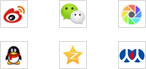
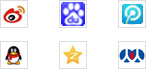
333

Changed region(s): [[0.411, 0.029, 0.6027, 0.3768], [0.8219, 0.058, 0.9863, 0.3478]]

diff --git a/index/Tpl/Index/index.html b/index/Tpl/Index/index.html
@@ -4,28 +4,33 @@
 <meta http-equiv="Content-Type" content="text/html; charset=utf-8" />
 <title>拉帮皆友一起享</title>
 <link href="__PUBLIC__/index/css/style.css" rel="stylesheet" type="text/css" />
+    <script type="text/javascript" charset="utf-8" src="http://static.bshare.cn/b/buttonLite.js#uuid=4787597&style=-1"></script>
+
 </head>
 <body>
     <!--pop start-->
-    <div id="popDiv" class="mydiv" style="display:none;">  
-		<a href="javascript:closeBg()" class="btn_del" title="关闭"></a>
+    <div id="popDiv" class="mydiv" style="display:none;">
+        <a href="javascript:closeBg();" class="btn_del" title="关闭"></a>
         <div class="popcon">
-        	<div class="popcon_left"><img src="__PUBLIC__/index/images/img_ewm.jpg" /></div>
+            <div class="popcon_left"><img id="img_keleyi_com" src="" /></div>
             <div class="popcon_right">
-            	<div class="btn_save"><a href="#" title="保存到本地"></a></div>
+                <div class="btn_save"><a id="img_keleyi_com_2" href="#" title="保存到本地"></a></div>
                 <div class="sharediv">
-                    <a title="分享到新浪微博" href="javascript:void(0);"><span class="xinlang"></span></a>
-                    <a title="分享到微信" href="javascript:void(0);"><span class="weixin"></span></a>
-                    <a title="分享到微信朋友圈" href="javascript:void(0);"><span class="weixinpy"></span></a>
-                    <a title="分享到腾讯微博" href="javascript:void(0)" onclick="postToWb();"><span class="tengxunweibo"></span></a>
-                    <a title="分享到Qzone空间" href="javascript:void(0);"><span class="qqzone"></span></a>
-                    <a title="分享到人人网" href="javascript:void(0);"><span class="renren"></span></a>
+                    <!--
+                    <wb:share-button appkey="358C3z" addition="full" type="button" ralateUid="1660811367" default_text="我参加了诺基亚“拉帮‘皆’友，一起享”活动，扫描我的二维码或点击（链接）购买就能立享优惠哦！明星机型都有参与！" picture_search="false"></wb:share-button>
+                    -->
+                    <a title="分享到新浪微博" href="javascript:void(0);" onclick="bShare.share(event,'sinaminiblog',2);return false;"><span class="xinlang"></span></a>
+                    <a title="分享到百度贴吧" href="javascript:void(0);" onclick="bShare.share(event,'itieba',0);return false;"><span class="weixin"></span></a>
+                    <a title="分享到QQ好友" href="javascript:void(0);" onclick="bShare.share(event,'qqim',1);return false;"><span class="tengxunweibo"></span></a>
+                    <a title="分享到腾讯微博" href="javascript:void(0)" onclick="bShare.share(event,'qqmb',0);return false;"><span class="weixinpy"></span></a>
+                    <a title="分享到Qzone空间" href="javascript:void(0);" onclick="bShare.share(event,'qzone',0);return false;"><span class="qqzone"></span></a>
+                    <a title="分享到人人网" href="javascript:void(0);" onclick="bShare.share(event,'renren',0);return false;"><span class="renren"></span></a>
                 </div>
             </div>
             <div class="clear20"></div>
-            <div class="popcon_foot"><a href="#">http://wwww.baidu.com</a></div>
+            <div class="popcon_foot"></div>
         </div>
-    </div>                                   
+    </div>
     <div id="hidebg" class="hidebg" style="display:none"></div>
     <!--pop end-->
 	<!--header start-->
@@ -41,8 +46,8 @@
     	<div class="hdnrcon">
         	<div class="hdnrconleft">
             	<div class="imgbox"><a href="#"><img src="__PUBLIC__/index/images/ewm.jpg" /></a></div>
-                <div class="inputbox"><input type="text" class="inputclass" value=""/></div>
-                <div class="btn_click"><a href="#" onClick="alert('活动尚未开始，暂不可领取！');return;showBg();" title="点击生成"></a></div>
+                <div class="inputbox"><input type="text" class="inputclass" value="" id="action_tel"/></div>
+                <div class="btn_click"><a onClick="showBg();" title="点击生成"></a></div>
             </div>
         </div>
     </div>
@@ -76,7 +81,7 @@
                 	<div class="divimg"><img src="__PUBLIC__/index/images/img_phone5.jpg" /></div>
                     <div class="divprice"><img src="__PUBLIC__/index/images/img_price5.jpg" /></div>
                     <div class="btn_buy"><a href="http://detail.tmall.com/item.htm?spm=a220m.1000858.1000725.6.5XPajX&id=39217571828&_u=k1ivtdlob5a4&areaId=110100&cat_id=2&rn=b5a24abaed301bbe07732f89c73b314f&user_id=1102421602&is_b=1" target="_blank" title="点击购买"></a></div>
-                </li>
+                </li
             </ul>
             <div class="clear"></div>
         </div>
@@ -106,71 +111,70 @@
 <script type="text/javascript">
     //显示灰色 jQuery 遮罩层
     function showBg() {
-        
-        $("#hidebg").css({
-            display: "block"
+        var tel = $('#action_tel').val();
+        if(!tel){
+            alert('请输入您的手机号！');
+            return false;
+        }
+
+        $.ajax({
+            type : 'POST',
+            url : '__URL__/check_tel',
+            cache : false,
+            data : '&id='+ tel + '&type=tel',
+            dataType : 'json',
+            success : function(ress){
+                if(ress.status == 'error'){
+                    alert('数据请求失败！请稍后再试！');
+                    return;
+                }else{
+
+                    var foot_str = '我参加了诺基亚“拉帮‘皆’友，一起享”活动，扫描我的二维码或点击（<a href="http://182.92.64.207/nokia_share/share/' + ress.id + '" target="_blank">http://182.92.64.207/nokia_share/share/' + ress.id + '</a>）购买就能立享优惠哦！明星机型都有参与！详情访问：<a target="_blank" href="http://182.92.64.207/nokia_share">http://182.92.64.207/nokia_share</a>';
+                    $('.popcon_foot').html(foot_str);
+
+                    bShare.addEntry({
+                        title: "拉帮皆友一起享",
+                        url: "http://182.92.64.207/nokia_share",
+                        summary: "我参加了诺基亚“拉帮‘皆’友，一起享”活动，扫描我的二维码或点击（http://182.92.64.207/nokia_share/share/" + ress.id + "）购买就能立享优惠哦！明星机型都有参与！",
+                        pic: "http://182.92.64.207__APP__/Index/checkqr/id/" + ress.id
+                    });
+
+                    bShare.addEntry({
+                        title: "拉帮皆友一起享",
+                        url: "http://182.92.64.207/nokia_share",
+                        summary: "我参加了诺基亚“拉帮‘皆’友，一起享”活动，点击http://182.92.64.207/nokia_share/share/" + ress.id + "购买就能立享优惠哦！明星机型都有参与！",
+                        pic: "http://182.92.64.207__APP__/Index/checkqr/id/" + ress.id
+                    });
+
+                    bShare.addEntry({
+                        title: "拉帮皆友一起享",
+                        url: "http://182.92.64.207/nokia_share",
+                        summary: "我参加了诺基亚“拉帮‘皆’友，一起享”活动，扫描我的二维码或点击（http://182.92.64.207/nokia_share/share/" + ress.id + "）购买就能立享优惠哦！明星机型都有参与！活动详情：",
+                        pic: "http://182.92.64.207__APP__/Index/checkqr/id/" + ress.id
+                    });
+
+                    $("#img_keleyi_com").attr("src", "__APP__/Index/checkqr/id/" + ress.id);
+                    $("#img_keleyi_com").attr("width", "200");
+                    $("#img_keleyi_com").attr("height", "200");
+                    $("#img_keleyi_com_2").attr("href", "__APP__/Index/downqr/id/" + ress.id);
+                    $("#hidebg").css({
+                        display: "block"
+                    });
+                    $("#popDiv").show();
+                    return;
+                }
+            }
         });
-        $("#popDiv").show();
     }
+
+
     //关闭灰色 jQuery 遮罩
     function closeBg() {
         $("#hidebg,#popDiv").hide();
     }
-	
-// 分享代码
-var shareid = "fenxiang";
 
-(function() {
-    var a = {
-        url:function() {
-            return encodeURIComponent(window.location.href)
-        },title:function() {
-            return encodeURIComponent(window.document.title)
-        },content:function(b) {
-            if (b) {
-                return encodeURIComponent($("#" + b).html())
-            } else {
-                return""
-            }
-        },setid:function() {
-            if (typeof(shareid) == "undefined") {
-                return null
-            } else {
-                return shareid
-            }
-        },renren:function() {
-            window.open("http://share.renren.com/share/buttonshare.do?link=" + this.url() + "&title=" + this.title())
-        },sinaminiblog:function() {
-            window.open("http://v.t.sina.com.cn/share/share.php?url=" + this.url() + "&title=" + this.title() + "&content=utf-8&source=&sourceUrl=&pic=")
-        },qqzone:function() {
-            window.open('http://sns.qzone.qq.com/cgi-bin/qzshare/cgi_qzshare_onekey?url=' + encodeURIComponent(location.href) + '&title=' + encodeURIComponent(document.title))}};
-    window.share = a
-})();
 
-$(function() {
-    $(".renren").click(function() {
-        share.renren();
-    });
-    $(".xinlang").click(function() {
-        share.sinaminiblog();
-    });
-    
-    $(".qqzone").click(function() {
-        share.qqzone();
-    });
-    
-    $(".qqweibo").click(function() {
-        share.qqweibo();
-    });
-	
-});
-function postToWb() {
-    var _t = encodeURI(document.title);
-    var _url = encodeURI(document.location);
-    var _appkey = encodeURI("appkey");
-    var _u = 'http://v.t.qq.com/share/share.php?title=' + _t + '&url=' + _url + '&appkey=' + _appkey;
-    window.open(_u);
-}
+
 </script>
     <div style="display: none;">
         <script src="http://s4.cnzz.com/stat.php?id=5942738&web_id=5942738" language="JavaScript"></script>

diff --git a/Public/index/css/style.css b/Public/index/css/style.css
@@ -100,6 +100,6 @@ a.btn_del:hover{opacity:0.7;filter:alpha(opacity=70);}
 			.sharediv a span.tengxunweibo{background-position:0 -41px;}
 			.sharediv a span.qqzone{background-position:-59px -41px;}
 			.sharediv a span.renren{background-position:-118px -41px;}
-			
-	.popcon_foot{ width:546px; height:20px; background:url(../images/text5.jpg) no-repeat; padding:20px 0 0 300px; color:#282828; font-size:14px; font-weight:400;}
-	.popcon_foot a{ text-decoration:none;}
+
+.popcon_foot{ width:546px; height:20px; line-height:20px; color:#282828; font-size:11px; font-weight:400;}
+.popcon_foot a{ text-decoration:none;}

diff --git a/index/Lib/Action/IndexAction.class.php b/index/Lib/Action/IndexAction.class.php
@@ -123,6 +123,42 @@ class IndexAction extends Action {
         echo json_encode($return_result);
     }
 
+    public function check_tel(){
+        $User = M('User');
+        $where = array();
+        $where['type'] = $this -> _post('type');
+        $where['content'] = $this -> _post('id');
+        $result = $User -> field('id') -> where($where) -> find();
+        $return_result = array();
+        //没有数据则新建数据
+        if(!$result){
+
+            $data = array();
+            $data['type'] = $this -> _post('type');
+            $data['content'] = $this -> _post('id');
+            $data['addtime'] = time();
+            $data['name'] = $this -> _post('id');
+
+            if($id = $User -> add($data)){
+
+                //新建统计数据
+                $Num = M('Num');
+                $data_num = array();
+                $data_num['uid'] = $id;
+                $data_num['sum'] = 0;
+                $Num -> add($data_num);
+                $return_result['status'] = 'success';
+                $return_result['id'] = $id;
+            }else{
+                $return_result['status'] = 'error';
+            }
+        }else{
+            $return_result['status'] = 'success';
+            $return_result['id'] = $result['id'];
+        }
+        echo json_encode($return_result);
+    }
+
     public function checkqr(){
         $id = $this -> _get('id', 'intval');
         Vendor('phpqrcode.phpqrcode');
